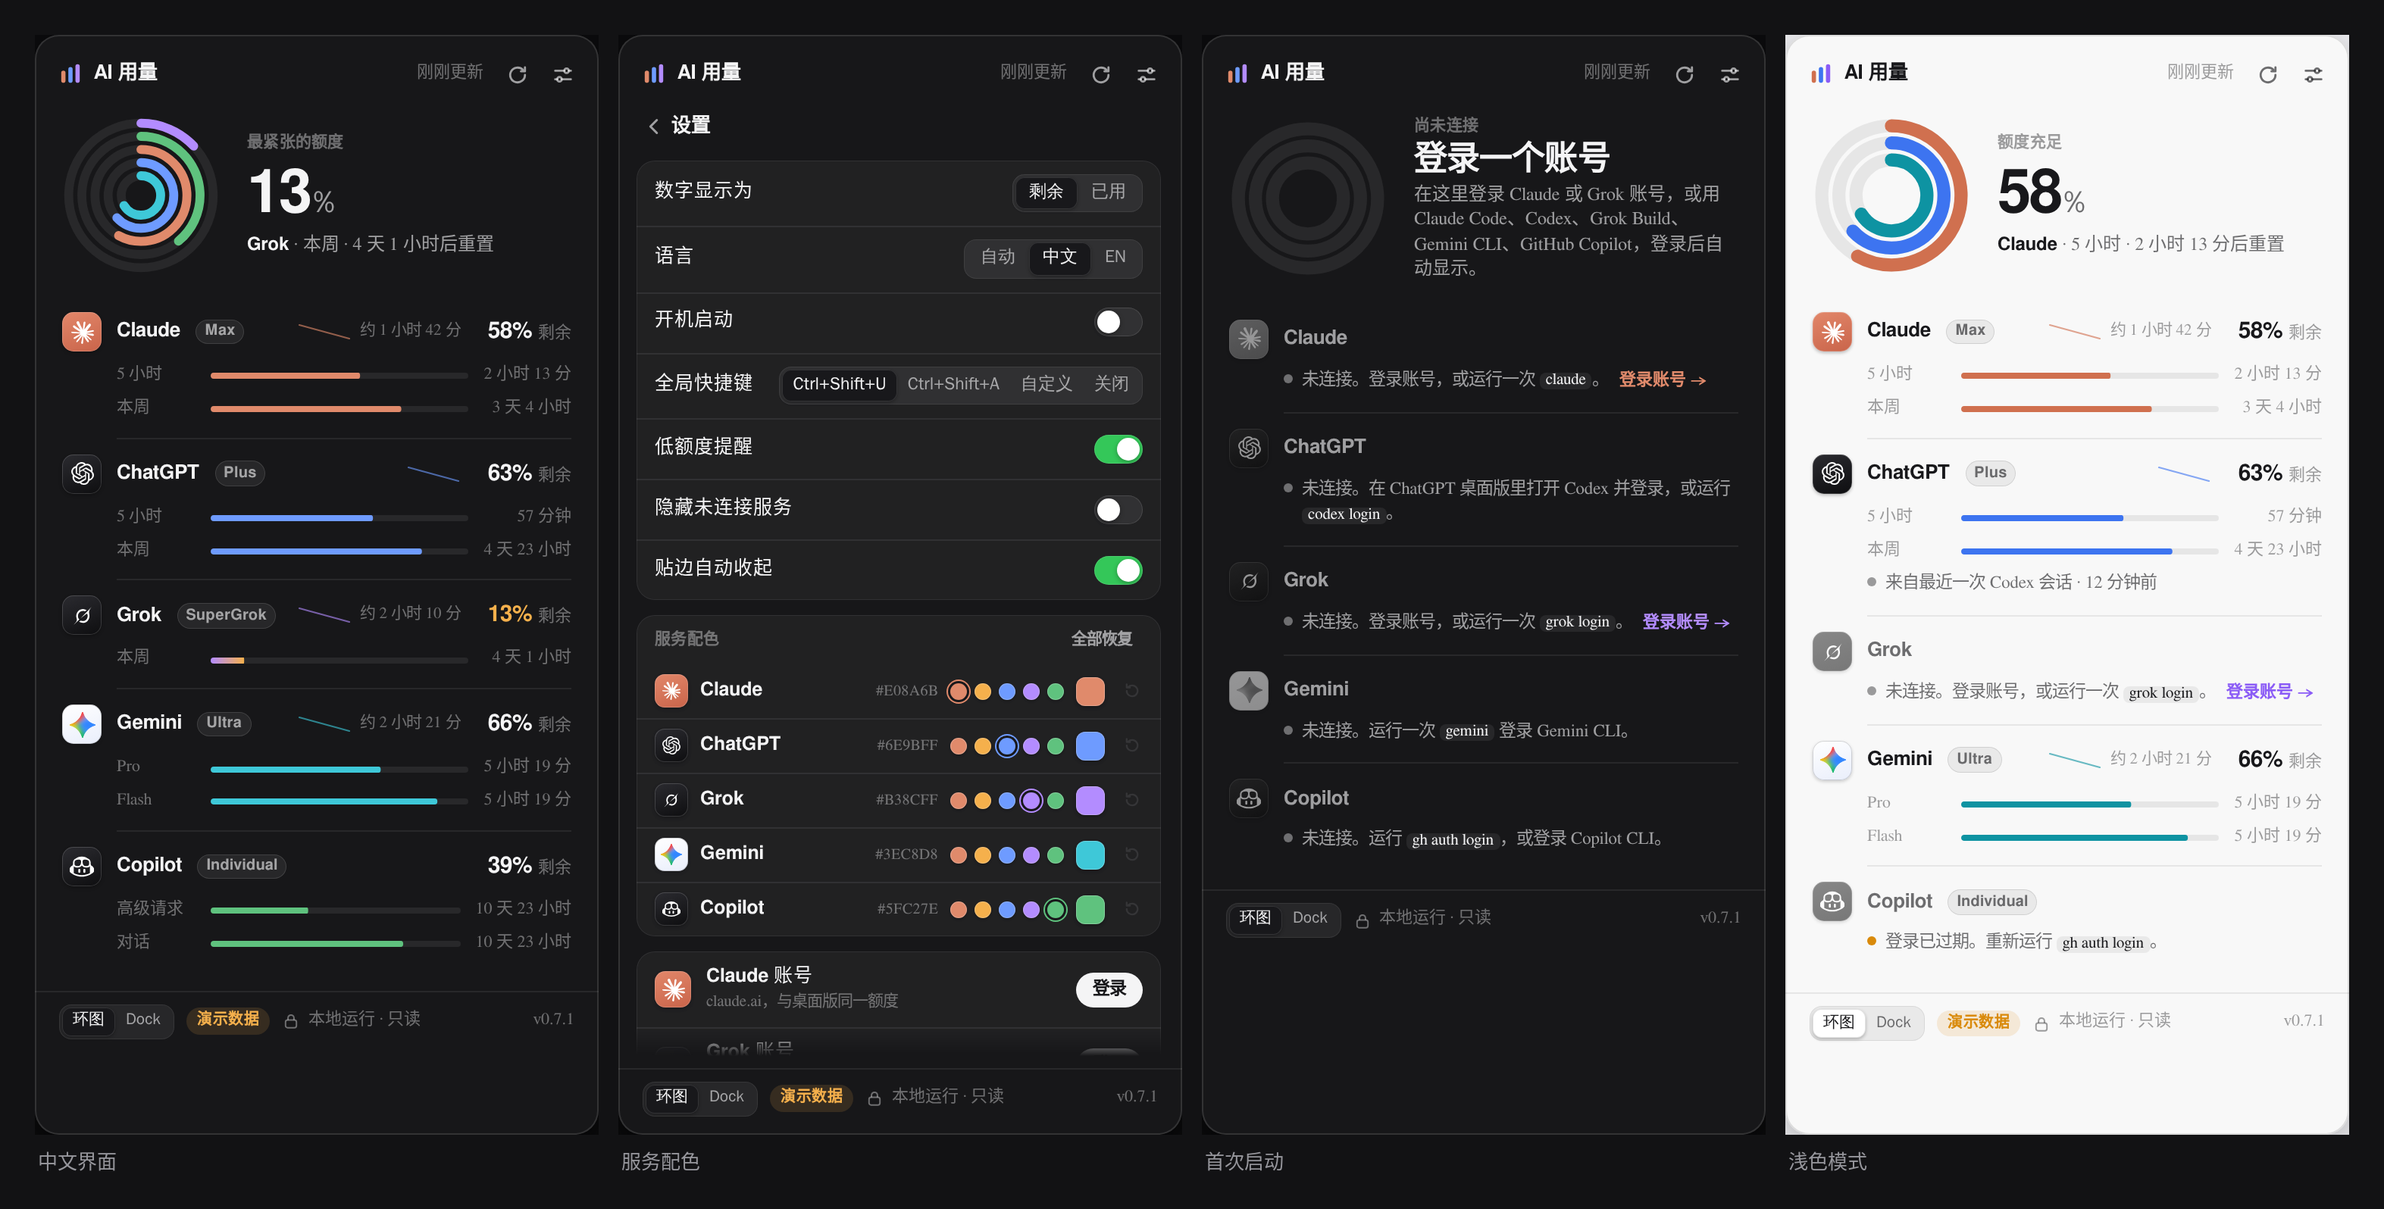
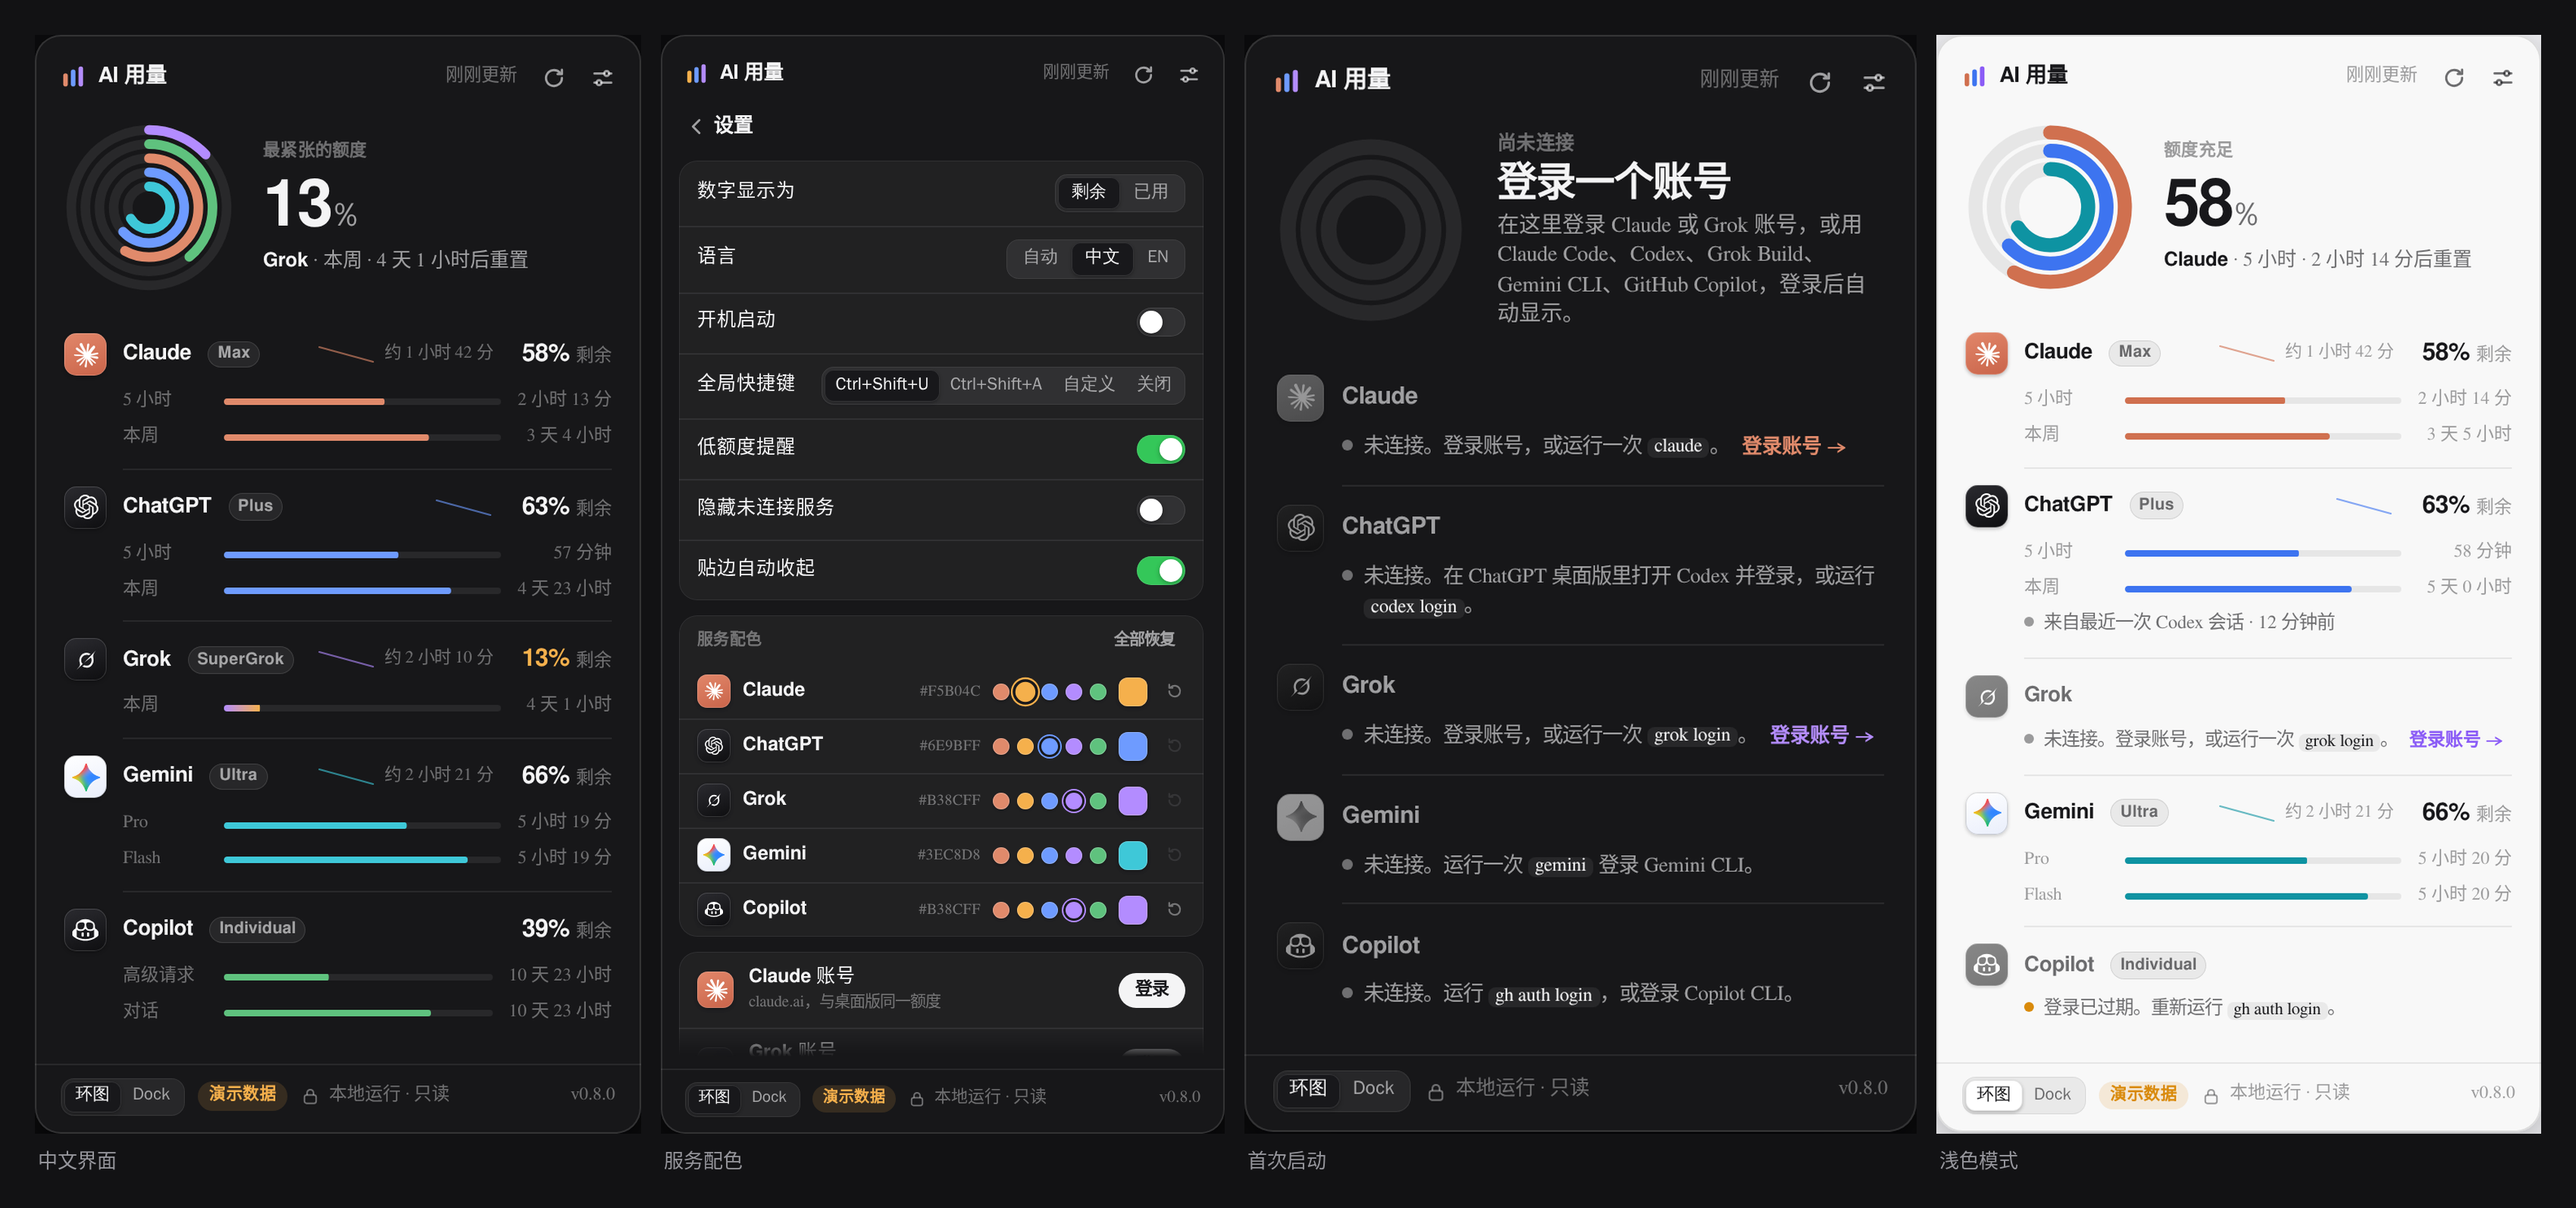
chore: bump version to 0.8.0
Every place the app states its own version now says 0.8.0:

- src-tauri/Cargo.toml and crates/ai-usage-core/Cargo.toml
- src-tauri/tauri.conf.json (what the bundle and `app_info` report)
- the preview-mode footer in src/main.js
- README.md / README_EN.md: the install section points at the
  v0.8.0 release and names the 0.8.0 .deb

Also in the same pass, while those files were open:

- docs/states.png re-shot on the current sources, so the four tiles
  carry the v0.8.0 footer and the update-check row in Settings
- the privacy/contributing links pointed at providers.rs, which the
  per-provider split turned into a directory
- roadmap: tick the in-app update check (0.8.0) and the Homebrew /
  Scoop / AUR manifests

diff --git a/src/main.js b/src/main.js
@@ -199,7 +199,7 @@ async function boot() {
     } catch (_) {}
     if (platform === "macos") root.classList.add("vibrancy");
   }
-  if (PREVIEW) document.getElementById("version").textContent = "v0.7.1";
+  if (PREVIEW) document.getElementById("version").textContent = "v0.8.0";
   root.classList.add("platform-" + platform);
   if (platform !== "macos") {
     document.getElementById("setting-tray").hidden = true;

diff --git a/README_EN.md b/README_EN.md
@@ -53,7 +53,7 @@ Tired of hitting "usage limit reached" mid-task? AI Usage Meter puts every 5-hou
 
 ## Install
 
-Grab the latest from [Releases](https://github.com/TTNAN/ai-usage-meter/releases/latest) — [v0.7.1](https://github.com/TTNAN/ai-usage-meter/releases/tag/v0.7.1) today, with the macOS `.dmg`, the Windows `.exe` and `.msi`, and the Linux `.deb` and `.AppImage`:
+Grab the latest from [Releases](https://github.com/TTNAN/ai-usage-meter/releases/latest) — [v0.8.0](https://github.com/TTNAN/ai-usage-meter/releases/tag/v0.8.0) today, with the macOS `.dmg`, the Windows `.exe` and `.msi`, and the Linux `.deb` and `.AppImage`:
 
 | Platform | File | Notes |
 | --- | --- | --- |
@@ -68,7 +68,7 @@ xattr -cr "/Applications/AI Usage Meter.app"
 > [!TIP]
 > The app is not notarised yet, so if macOS blocks the first launch, right-click → Open (or run the command above) once and it opens normally from then on.
 >
-> Linux: install the `.deb` with `sudo apt install ./AI.Usage.Meter_0.7.1_amd64.deb`, or `chmod +x` the `.AppImage` and run it (AppImage needs FUSE, or use `--appimage-extract-and-run`). A Wayland session grants no global shortcut and lets no app place its own window, so neither the shortcut nor edge tucking is available there — Settings says so.
+> Linux: install the `.deb` with `sudo apt install ./AI.Usage.Meter_0.8.0_amd64.deb`, or `chmod +x` the `.AppImage` and run it (AppImage needs FUSE, or use `--appimage-extract-and-run`). A Wayland session grants no global shortcut and lets no app place its own window, so neither the shortcut nor edge tucking is available there — Settings says so.
 
 Then sign in to whichever tools you use (the rest just show "Not connected"):
 
@@ -121,7 +121,7 @@ Web-account requests run in a hidden window, on the service's own page (just lik
 - Usage queries only (Gemini's are two POST queries the official CLI makes too). Your accounts and CLI config files are never modified. The one thing written back is `access_token` and `expiry_date` in `~/.gemini/oauth_creds.json` after a token renewal; every other field is left as it was.
 - Gemini renewals use Gemini CLI's own OAuth client. It belongs to the CLI, not to this project, so this repository does not carry it: the pair is read from the `@google/gemini-cli` package installed on your machine (or from `oauth_creds.json` when it names one), and `GEMINI_CLI_OAUTH_CLIENT_ID` / `GEMINI_CLI_OAUTH_CLIENT_SECRET` override it. When neither is found the row asks you to sign in again instead of guessing.
 - The usage trend lives in this app's own `localStorage` and never touches the network.
-- No servers, no analytics, no telemetry. A few thousand lines — read [`crates/ai-usage-core/src/providers.rs`](src-tauri/crates/ai-usage-core/src/providers.rs) and [`web.rs`](src-tauri/src/web.rs).
+- No servers, no analytics, no telemetry. A few thousand lines — read [`crates/ai-usage-core/src/providers/`](src-tauri/crates/ai-usage-core/src/providers) and [`web.rs`](src-tauri/src/web.rs).
 
 ## Caveats
 
@@ -172,7 +172,7 @@ cd src-tauri/crates/ai-usage-core && cargo test   # core unit tests
 cd src-tauri && cargo test                        # app layer (needs Tauri's system deps)
 ```
 
-Want another service (Cursor, Windsurf…)? Open an [issue](https://github.com/TTNAN/ai-usage-meter/issues) or a PR — each service is a single function in `ai-usage-core/src/providers.rs`.
+Want another service (Cursor, Windsurf…)? Open an [issue](https://github.com/TTNAN/ai-usage-meter/issues) or a PR — each service is a single file under `ai-usage-core/src/providers/`.
 
 ## Roadmap
 
@@ -182,6 +182,7 @@ Want another service (Cursor, Windsurf…)? Open an [issue](https://github.com/T
 - [x] A global shortcut (`⌘⇧U` / `Ctrl+Shift+U`, or one you record)
 - [x] The Dock edition folded into one app: rings and dock views (0.7.0)
 - [x] A Linux build: `.deb` and `.AppImage`, with a tray icon
+- [x] A lightweight in-app update check: GitHub Releases, at most once a day (0.8.0)
 - [ ] More services: Cursor, Windsurf
 - [ ] Signed and notarised macOS builds
 

diff --git a/README.md b/README.md
@@ -53,7 +53,7 @@
 
 ## 安装
 
-从 [Releases](https://github.com/TTNAN/ai-usage-meter/releases/latest) 下载最新版 —— 当前 [v0.7.1](https://github.com/TTNAN/ai-usage-meter/releases/tag/v0.7.1)，macOS `.dmg`、Windows `.exe` 与 `.msi`、Linux `.deb` 与 `.AppImage` 都在里面：
+从 [Releases](https://github.com/TTNAN/ai-usage-meter/releases/latest) 下载最新版 —— 当前 [v0.8.0](https://github.com/TTNAN/ai-usage-meter/releases/tag/v0.8.0)，macOS `.dmg`、Windows `.exe` 与 `.msi`、Linux `.deb` 与 `.AppImage` 都在里面：
 
 | 平台 | 文件 | 说明 |
 | --- | --- | --- |
@@ -68,7 +68,7 @@ xattr -cr "/Applications/AI Usage Meter.app"
 > [!TIP]
 > 应用尚未公证，所以首次打开被 macOS 拦下时，右键 → 打开，或者运行上面这行命令即可；之后就能正常双击启动了。
 >
-> Linux：`.deb` 用 `sudo apt install ./AI.Usage.Meter_0.7.1_amd64.deb` 安装；`.AppImage` 加 `chmod +x` 后直接运行（AppImage 需要 FUSE，或用 `--appimage-extract-and-run`）。Wayland 会话下没有全局快捷键，也不能贴边——这是 Wayland 的限制，应用会在设置里说明。
+> Linux：`.deb` 用 `sudo apt install ./AI.Usage.Meter_0.8.0_amd64.deb` 安装；`.AppImage` 加 `chmod +x` 后直接运行（AppImage 需要 FUSE，或用 `--appimage-extract-and-run`）。Wayland 会话下没有全局快捷键，也不能贴边——这是 Wayland 的限制，应用会在设置里说明。
 
 然后登录你在用的工具（用哪个登哪个，没登录的会显示「未连接」）：
 
@@ -121,7 +121,7 @@ xattr -cr "/Applications/AI Usage Meter.app"
 - 只发查询用量的请求（Gemini 用的是官方 CLI 自己的两个 POST 查询接口），不会改动你的账号或 CLI 配置文件。唯一会写回本机的，是 Gemini 令牌续期后 `~/.gemini/oauth_creds.json` 里的 `access_token` 和 `expiry_date` 两个字段，其余内容原样保留。
 - Gemini 续期用的是 Gemini CLI 自己的 OAuth 客户端，它不属于这个项目，因此本仓库不收录：续期时从你本机已安装的 `@google/gemini-cli` 包里读取（`oauth_creds.json` 自带时就先用它自己的），也可以用 `GEMINI_CLI_OAUTH_CLIENT_ID` / `GEMINI_CLI_OAUTH_CLIENT_SECRET` 指定。找不到就只显示「请重新登录」，不会去猜。
 - 用量走势只存在本应用自己的 `localStorage` 里，不经过网络。
-- 没有服务器、没有统计、没有遥测。代码就这几千行，欢迎审阅：[`crates/ai-usage-core/src/providers.rs`](src-tauri/crates/ai-usage-core/src/providers.rs)、[`web.rs`](src-tauri/src/web.rs)。
+- 没有服务器、没有统计、没有遥测。代码就这几千行，欢迎审阅：[`crates/ai-usage-core/src/providers/`](src-tauri/crates/ai-usage-core/src/providers)、[`web.rs`](src-tauri/src/web.rs)。
 
 ## 风险说明
 
@@ -172,7 +172,7 @@ cd src-tauri/crates/ai-usage-core && cargo test   # 核心库单元测试
 cd src-tauri && cargo test                        # 应用层（需要 Tauri 的系统依赖）
 ```
 
-想支持更多服务（Cursor、Windsurf…）？欢迎提 [Issue](https://github.com/TTNAN/ai-usage-meter/issues) 或 PR：每个服务只是 `ai-usage-core/src/providers.rs` 里的一个函数。
+想支持更多服务（Cursor、Windsurf…）？欢迎提 [Issue](https://github.com/TTNAN/ai-usage-meter/issues) 或 PR：每个服务只是 `ai-usage-core/src/providers/` 里的一个文件。
 
 ## 路线图
 
@@ -182,6 +182,7 @@ cd src-tauri && cargo test                        # 应用层（需要 Tauri 的
 - [x] 全局快捷键（`⌘⇧U` / `Ctrl+Shift+U`，或自己录制）
 - [x] 把 Dock 版并进同一个应用：环图 / Dock 双形态（0.7.0）
 - [x] Linux 托盘：`.deb` 与 `.AppImage`
+- [x] 应用内轻量更新检查：GitHub Releases，24 小时内最多问一次（0.8.0）
 - [ ] 更多服务：Cursor、Windsurf
 - [ ] macOS 签名与公证
 
